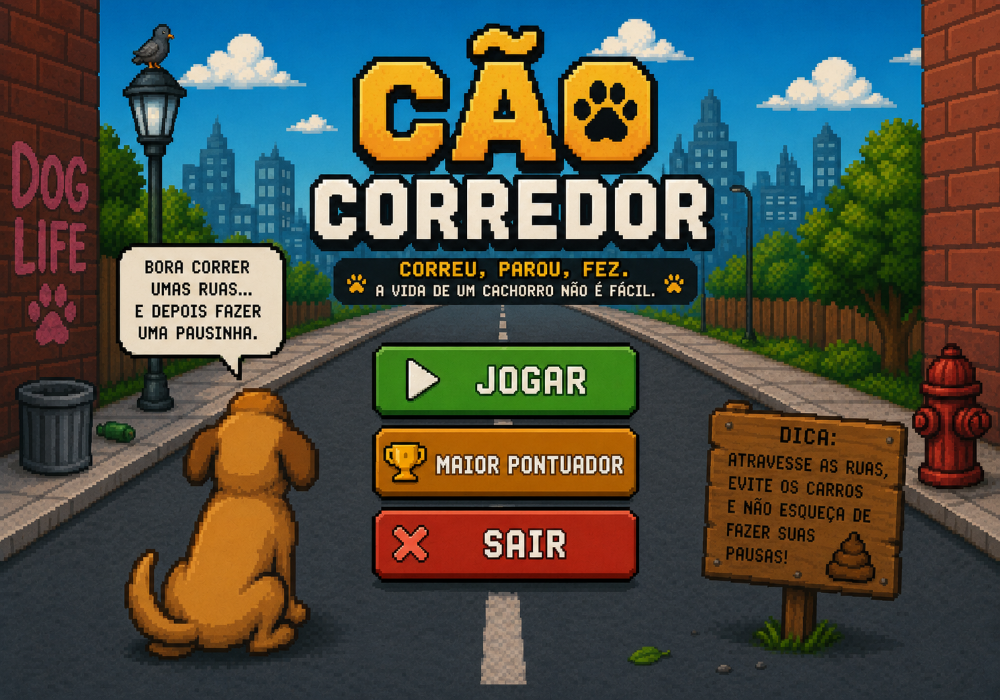
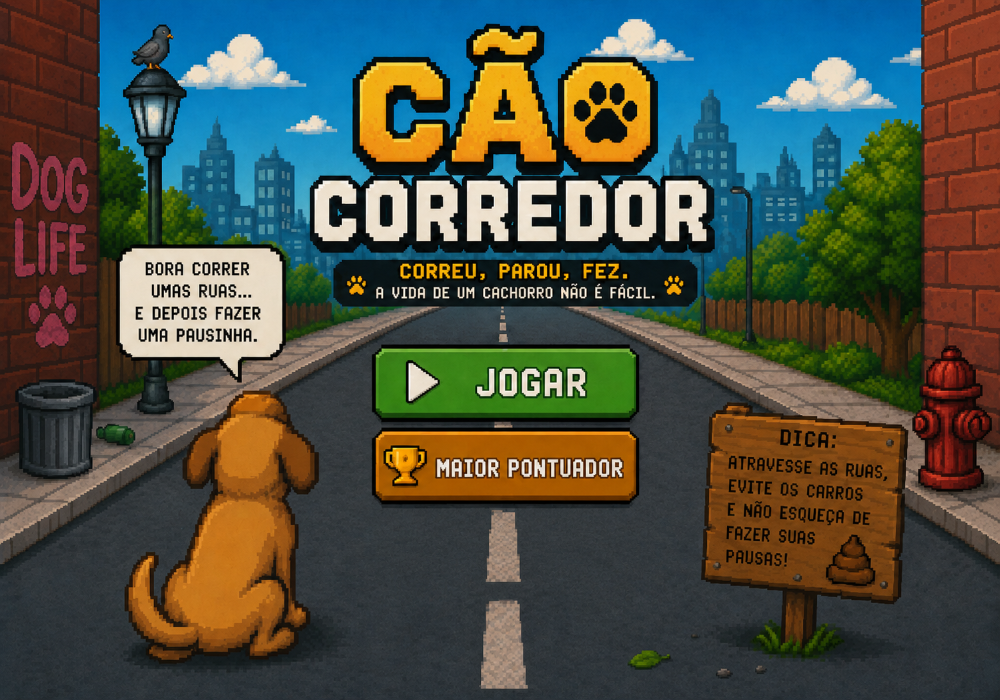
Imagem de inicio alterada e readMe

diff --git a/main.py b/main.py
@@ -43,7 +43,8 @@ carroVerdeD = pygame.transform.rotate(carroVerde, 90)
 carroVerdeE = pygame.transform.rotate(carroVerde, -90)
 cachorro = pygame.image.load("bases/cachorrosemfundo.png")
 cachorro = pygame.transform.rotate(cachorro, -90)
-frasePause = fonte.render("PRESSIONE ESC PARA VOLTAR", True, preto)
+frasePause = fonte.render("PRESS SPACE TO PAUSE", True, branco)
+fraseResume = fonte.render("PRESSIONE SPACE PARA VOLTAR", True, branco)
 rodando = True
 pausado = False
 fps = pygame.time.Clock()
@@ -53,13 +54,11 @@ fps = pygame.time.Clock()
 def inicio():
     startButton = pygame.Rect(378, 348, 254, 60)
     maiorButton = pygame.Rect(378, 428, 254, 60)
-    quitButton = pygame.Rect(378, 508, 254, 60)
 
     mouse_pos = pygame.mouse.get_pos()
 
     if (startButton.collidepoint(mouse_pos)
-        or maiorButton.collidepoint(mouse_pos)
-        or quitButton.collidepoint(mouse_pos)):
+        or maiorButton.collidepoint(mouse_pos)):
 
         pygame.mouse.set_cursor(pygame.SYSTEM_CURSOR_HAND)
 
@@ -72,13 +71,13 @@ def inicio():
                 start()
             elif maiorButton.collidepoint(evento.pos):
                 print(f"MAIOR PONTUADOR: {nome_maior} - {maior_pontos} pontos - {dataJogada}")
-            elif quitButton.collidepoint(evento.pos):
+        elif evento.type == pygame.KEYDOWN and evento.key == pygame.K_ESCAPE:
+            pygame.quit()
+            quit()
+        elif evento.type == pygame.QUIT:
                 pygame.quit()
                 quit()
-            elif evento.type == pygame.QUIT:
-                pygame.quit()
-                quit()
-
+            
     tela.blit(img_inicio, (0,0))
     pygame.display.update()
 
@@ -86,7 +85,7 @@ def inicio():
 
 def pause():
     tela.blit(img_pause, (0,0))
-    tela.blit(frasePause, (275, 620))
+    tela.blit(fraseResume, (320, 650))
     pygame.display.update()
 
 
@@ -168,17 +167,20 @@ def start():
                     yDog = yDogFaixa4
                 else:
                     yDog += yMovDog
-            elif evento.type == pygame.KEYDOWN and evento.key == pygame.K_ESCAPE:
+            elif evento.type == pygame.KEYDOWN and evento.key == pygame.K_SPACE:
                 pausado = True
                 pause()
                 while pausado:
                     for evento in pygame.event.get():
-                        if  evento.type == pygame.KEYDOWN and evento.key == pygame.K_ESCAPE:
+                        if  evento.type == pygame.KEYDOWN and evento.key == pygame.K_SPACE:
                             pausado = False
                         elif evento.type == pygame.QUIT:
                             pygame.quit()
                             quit()
                 pause()
+            elif evento.type == pygame.KEYDOWN and evento.key == pygame.K_ESCAPE:
+                pygame.quit()
+                quit()
 
 
         Dog_pos = (xDog, yDog)
@@ -186,6 +188,7 @@ def start():
         tela.blit(fundo, (posicaoXFundo, posicaoYFundo))
         tela.blit(fundo2, (posicaoXFundo2, posicaoYFundo2))
         tela.blit(frasePontos, (10, 10))
+        tela.blit(frasePause, (350, 650))
         posicaoXFundo -= velocidadeFundo
         posicaoXFundo2 -= velocidadeFundo
         if posicaoXFundo <= -1000:

diff --git a/recursos/funcoes.py b/recursos/funcoes.py
@@ -62,3 +62,4 @@ def maiorPontuador():
             dataJogada = info[1]            
 
     return nome_maior, maior_pontos, dataJogada
+

diff --git a/README.md b/README.md
@@ -1,1 +1,46 @@
-Trabalho do Marcão
+# Cão Corredor
+
+## Desenvolvedores
+
+* Tomás C. Tonial
+* Henrique Z. Tramontina
+
+## RA's
+
+* 1139224
+* 1139226
+
+## Tecnologias Utilizadas
+
+* Python
+* Pygame
+* pyttsx3
+* random
+* GitHub
+
+## Sinopse do Jogo
+
+**Cão Corredor** é um jogo desenvolvido em Python utilizando a biblioteca Pygame. O jogador controla um cachorro que permanece parado na rua enquanto o cenário e os obstáculos se movimentam em sua direção, criando a sensação de uma corrida constante pela cidade.
+
+Para sobreviver, o jogador deve movimentar o cachorro para cima e para baixo, desviando dos carros que aparecem pelo caminho. Além disso, é preciso realizar pausas estratégicas para manter o bem-estar do personagem e continuar acumulando pontos.
+
+Com uma estética em pixel art e mecânicas simples de aprender, o jogo desafia os reflexos e a atenção do jogador, que precisa reagir rapidamente aos obstáculos enquanto busca alcançar a maior pontuação possível.
+
+## Objetivo
+
+Sobreviver pelo maior tempo possível, desviando dos carros, realizando pausas quando necessário e acumulando pontos para entrar no ranking dos melhores jogadores.
+
+
+## Como Executar
+
+1. Instale o Python 3.
+2. Instale as dependências necessárias:
+
+   ```bash
+   pip install pygame pyttsx3
+   ```
+3. Execute o arquivo principal:
+
+   ```bash
+   python main.py
+   ```